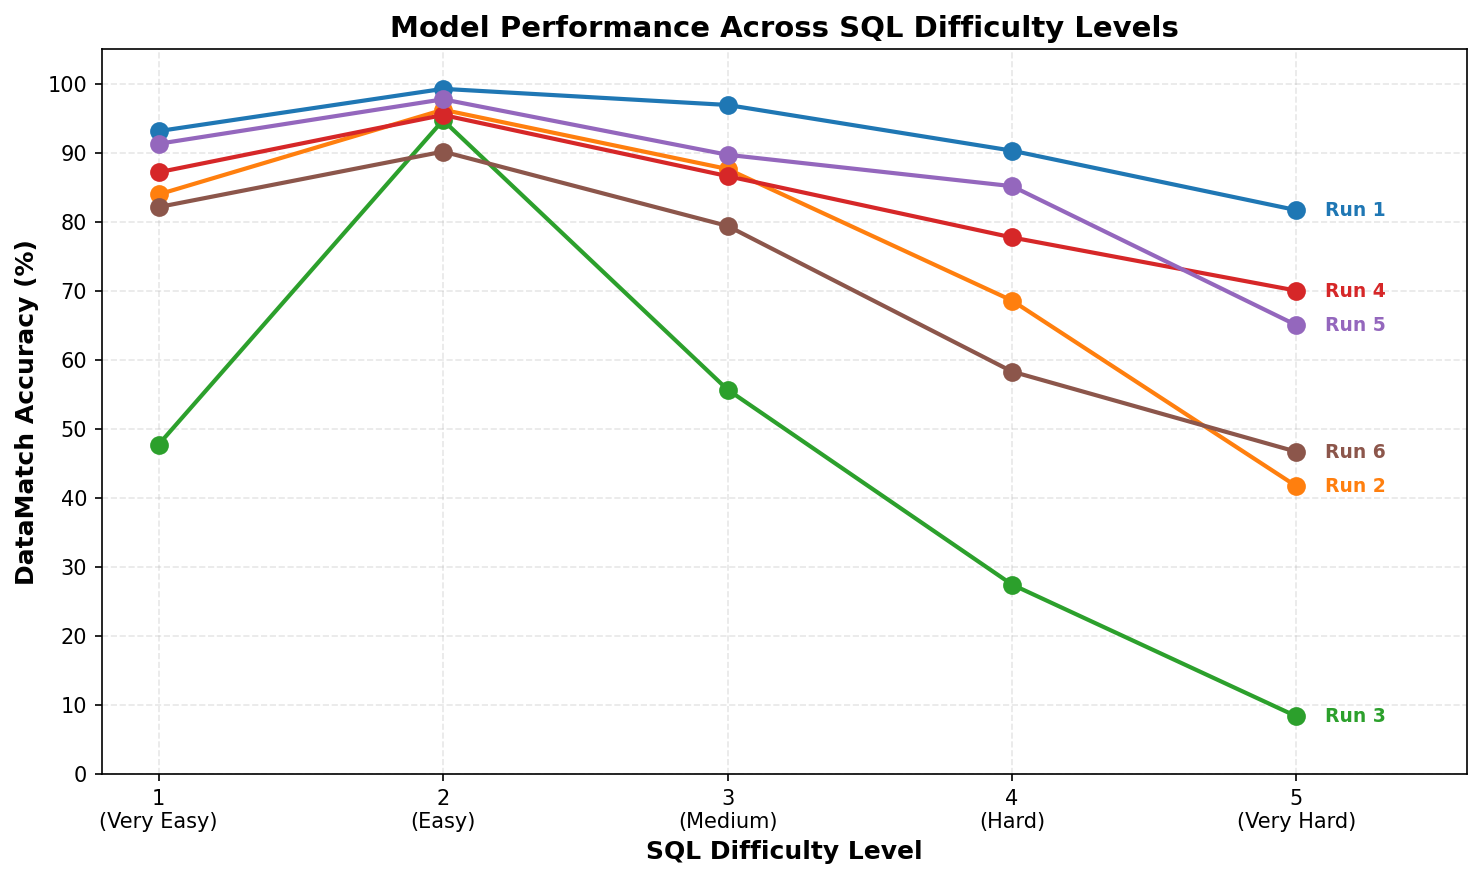
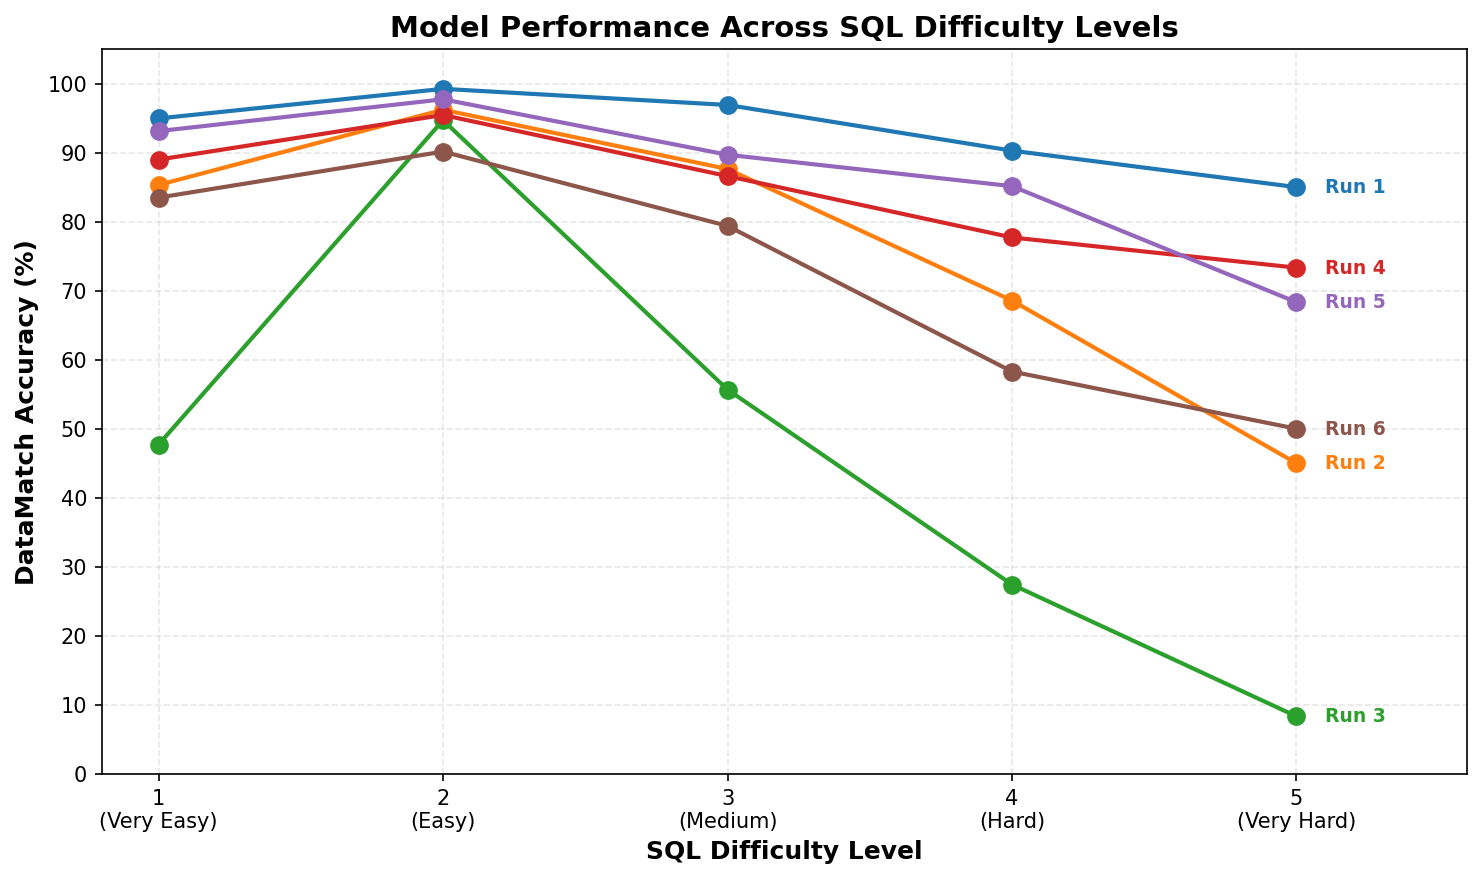
feat: make report generation more deterministic

diff --git a/scripts/generate_report.py b/scripts/generate_report.py
@@ -152,11 +152,12 @@ class ResultAnalyzer:
 
             # Count matches
             match_size = len(gold_set & pred_set)
-            if match_size > best_match_size:
+            # Use lexicographically smaller permutation as tiebreaker for determinism
+            if match_size > best_match_size or (match_size == best_match_size and (best_perm is None or perm < tuple(best_perm))):
                 best_match_size = match_size
                 best_perm = list(perm)
 
-                # Early exit if perfect match
+                # Early exit if perfect match and first valid permutation
                 if match_size == len(gold_set) and len(gold_set) == len(pred_set):
                     break
 
@@ -304,7 +305,11 @@ class ResultAnalyzer:
         """
         results = {}
 
-        for db_name, queries in queries_by_db.items():
+        # Sort database names for deterministic execution order
+        for db_name in sorted(queries_by_db.keys()):
+            queries = queries_by_db[db_name]
+            # Sort queries by index for deterministic order
+            queries = sorted(queries, key=lambda x: x[0])
             query_sqls = [sql for _, sql in queries]
 
             try:

diff --git a/benchmark_mysql/test_report.md b/benchmark_mysql/test_report.md
@@ -1,5 +1,5 @@
 # SQL Generation Benchmark Report
-**Generated**: 2026-02-10 02:48:28\
+**Generated**: 2026-02-10 13:36:32\
 **Dataset**: mysql\
 **Split**: test\
 **Total Queries**: 682
@@ -29,12 +29,12 @@
 
 | Run | App Name | Service | Model | DataMatch | ExecMatch | ExecF1 | Exact Match | Normalized Match | Parse Success | Runtime Success |
 |-----|----------|---------|-------|-----------|-----------|--------|-------------|------------------|---------------|----------------|
-| 1 | sqlai | azure | GPT 5.2 Chat | 93.1% | 36.1% | 0.942 | 36.4% | 36.4% | 100.0% | 100.0% |
-| 2 | sqlai | bedrock | anthropic.claude-3-sonnet-20240229-v1:0 | 79.2% | 37.0% | 0.808 | 36.4% | 36.4% | 100.0% | 99.1% |
+| 1 | sqlai | azure | GPT 5.2 Chat | 94.0% | 36.7% | 0.950 | 36.4% | 36.4% | 100.0% | 100.0% |
+| 2 | sqlai | bedrock | anthropic.claude-3-sonnet-20240229-v1:0 | 79.9% | 37.4% | 0.816 | 36.4% | 36.4% | 100.0% | 99.1% |
 | 3 | sqlai | vllm | defog/llama-3-sqlcoder-8b @ dtype bfloat16 | 49.3% | 24.8% | 0.497 | 24.3% | 24.3% | 70.5% | 66.1% |
-| 4 | sqlai | caii | openai/gpt-oss-20b | 84.8% | 30.9% | 0.859 | 30.5% | 30.5% | 99.7% | 99.4% |
-| 5 | sqlai | caii | Qwen/Qwen3-Coder-30B-A3B-Instruct | 88.4% | 40.8% | 0.903 | 40.5% | 40.5% | 99.9% | 99.4% |
-| 6 | sqlai | caii | nvidia/llama-3.3-nemotron-super-49b-v1.5 | 74.0% | 27.1% | 0.755 | 26.0% | 26.0% | 99.4% | 96.3% |
+| 4 | sqlai | caii | openai/gpt-oss-20b | 85.6% | 31.5% | 0.868 | 30.5% | 30.5% | 99.7% | 99.4% |
+| 5 | sqlai | caii | Qwen/Qwen3-Coder-30B-A3B-Instruct | 89.3% | 41.3% | 0.912 | 40.5% | 40.5% | 99.9% | 99.4% |
+| 6 | sqlai | caii | nvidia/llama-3.3-nemotron-super-49b-v1.5 | 74.8% | 27.6% | 0.763 | 26.0% | 26.0% | 99.4% | 96.3% |
 
 ### Accuracy by SQL Difficulty
 
@@ -44,23 +44,23 @@ This graph shows how DataMatch accuracy varies across SQL difficulty levels (1=V
 
 | Model | 1 (Very Easy) | 2 (Easy) | 3 (Medium) | 4 (Hard) | 5 (Very Hard) |
 |-------|-----------|-----------|-----------|-----------|-----------|
-| Run 1 | 93.1% | 99.2% | 96.9% | 90.3% | 81.7% |
-| Run 2 | 83.9% | 96.2% | 87.6% | 68.6% | 41.7% |
+| Run 1 | 95.0% | 99.2% | 96.9% | 90.3% | 85.0% |
+| Run 2 | 85.3% | 96.2% | 87.6% | 68.6% | 45.0% |
 | Run 3 | 47.7% | 94.7% | 55.7% | 27.4% | 8.3% |
-| Run 4 | 87.2% | 95.5% | 86.6% | 77.7% | 70.0% |
-| Run 5 | 91.3% | 97.7% | 89.7% | 85.1% | 65.0% |
-| Run 6 | 82.1% | 90.2% | 79.4% | 58.3% | 46.7% |
+| Run 4 | 89.0% | 95.5% | 86.6% | 77.7% | 73.3% |
+| Run 5 | 93.1% | 97.7% | 89.7% | 85.1% | 68.3% |
+| Run 6 | 83.5% | 90.2% | 79.4% | 58.3% | 50.0% |
 
 
 ## Run 1: sqlai (azure - GPT 5.2 Chat)
 
 ### Core Execution Metrics
 
-- **Data Match (Ignoring Column Names)**: 635/682 (93.11%)
+- **Data Match (Ignoring Column Names)**: 641/682 (93.99%)
   - *Same data values, ignoring column name differences*
-- **Execution Accuracy (ExecMatch)**: 246/682 (36.07%)
+- **Execution Accuracy (ExecMatch)**: 250/682 (36.66%)
   - *Exact match including column names*
-- **Average ExecF1**: 0.9416
+- **Average ExecF1**: 0.9504
 - **Exact Text Match**: 248/682 (36.36%)
 - **Normalized Match**: 248/682 (36.36%)
 ### Execution Success Rates
@@ -72,11 +72,11 @@ This graph shows how DataMatch accuracy varies across SQL difficulty levels (1=V
 
 ### Core Execution Metrics
 
-- **Data Match (Ignoring Column Names)**: 540/682 (79.18%)
+- **Data Match (Ignoring Column Names)**: 545/682 (79.91%)
   - *Same data values, ignoring column name differences*
-- **Execution Accuracy (ExecMatch)**: 252/682 (36.95%)
+- **Execution Accuracy (ExecMatch)**: 255/682 (37.39%)
   - *Exact match including column names*
-- **Average ExecF1**: 0.8082
+- **Average ExecF1**: 0.8155
 - **Exact Text Match**: 248/682 (36.36%)
 - **Normalized Match**: 248/682 (36.36%)
 ### Execution Success Rates
@@ -221,11 +221,11 @@ JOIN car_1.model_list ml O
 
 ### Core Execution Metrics
 
-- **Data Match (Ignoring Column Names)**: 578/682 (84.75%)
+- **Data Match (Ignoring Column Names)**: 584/682 (85.63%)
   - *Same data values, ignoring column name differences*
-- **Execution Accuracy (ExecMatch)**: 211/682 (30.94%)
+- **Execution Accuracy (ExecMatch)**: 215/682 (31.52%)
   - *Exact match including column names*
-- **Average ExecF1**: 0.8588
+- **Average ExecF1**: 0.8676
 - **Exact Text Match**: 208/682 (30.50%)
 - **Normalized Match**: 208/682 (30.50%)
 ### Execution Success Rates
@@ -287,11 +287,11 @@ ORDER BY Year_of_Founded DESC;```
 
 ### Core Execution Metrics
 
-- **Data Match (Ignoring Column Names)**: 603/682 (88.42%)
+- **Data Match (Ignoring Column Names)**: 609/682 (89.30%)
   - *Same data values, ignoring column name differences*
-- **Execution Accuracy (ExecMatch)**: 278/682 (40.76%)
+- **Execution Accuracy (ExecMatch)**: 282/682 (41.35%)
   - *Exact match including column names*
-- **Average ExecF1**: 0.9034
+- **Average ExecF1**: 0.9122
 - **Exact Text Match**: 276/682 (40.47%)
 - **Normalized Match**: 276/682 (40.47%)
 ### Execution Success Rates
@@ -356,11 +356,11 @@ LIMIT 1;```
 
 ### Core Execution Metrics
 
-- **Data Match (Ignoring Column Names)**: 505/682 (74.05%)
+- **Data Match (Ignoring Column Names)**: 510/682 (74.78%)
   - *Same data values, ignoring column name differences*
-- **Execution Accuracy (ExecMatch)**: 185/682 (27.13%)
+- **Execution Accuracy (ExecMatch)**: 188/682 (27.57%)
   - *Exact match including column names*
-- **Average ExecF1**: 0.7552
+- **Average ExecF1**: 0.7625
 - **Exact Text Match**: 177/682 (25.95%)
 - **Normalized Match**: 177/682 (25.95%)
 ### Execution Success Rates
